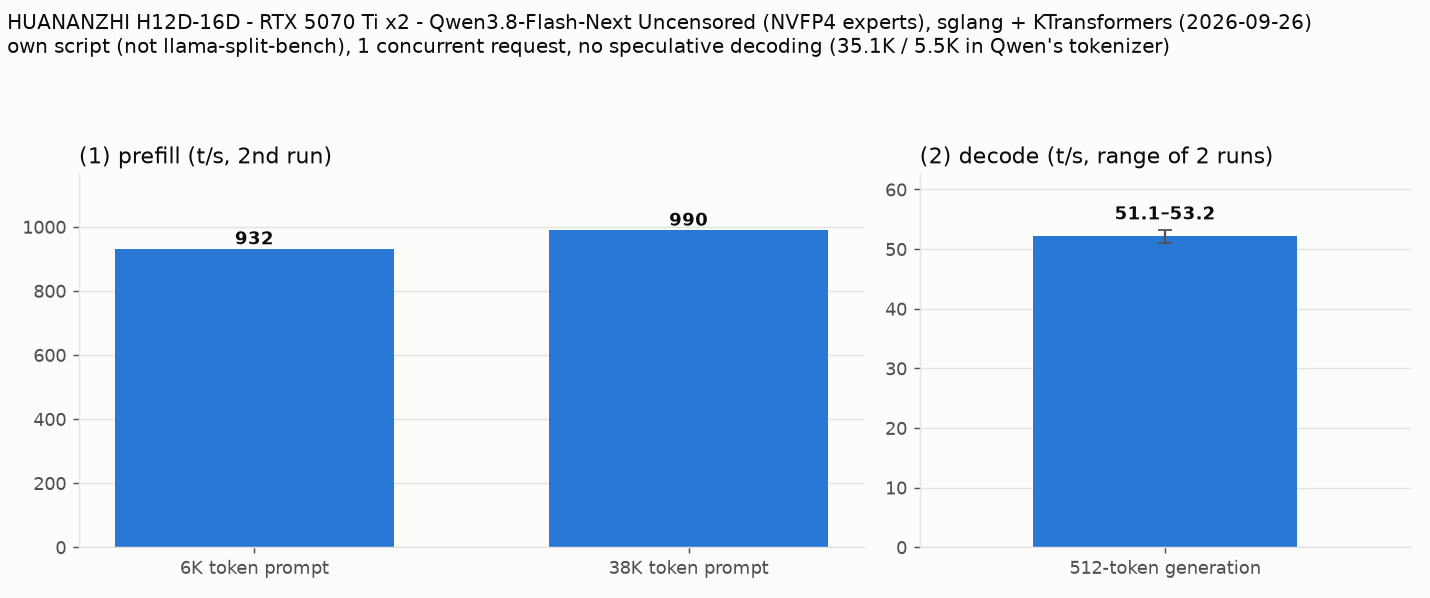
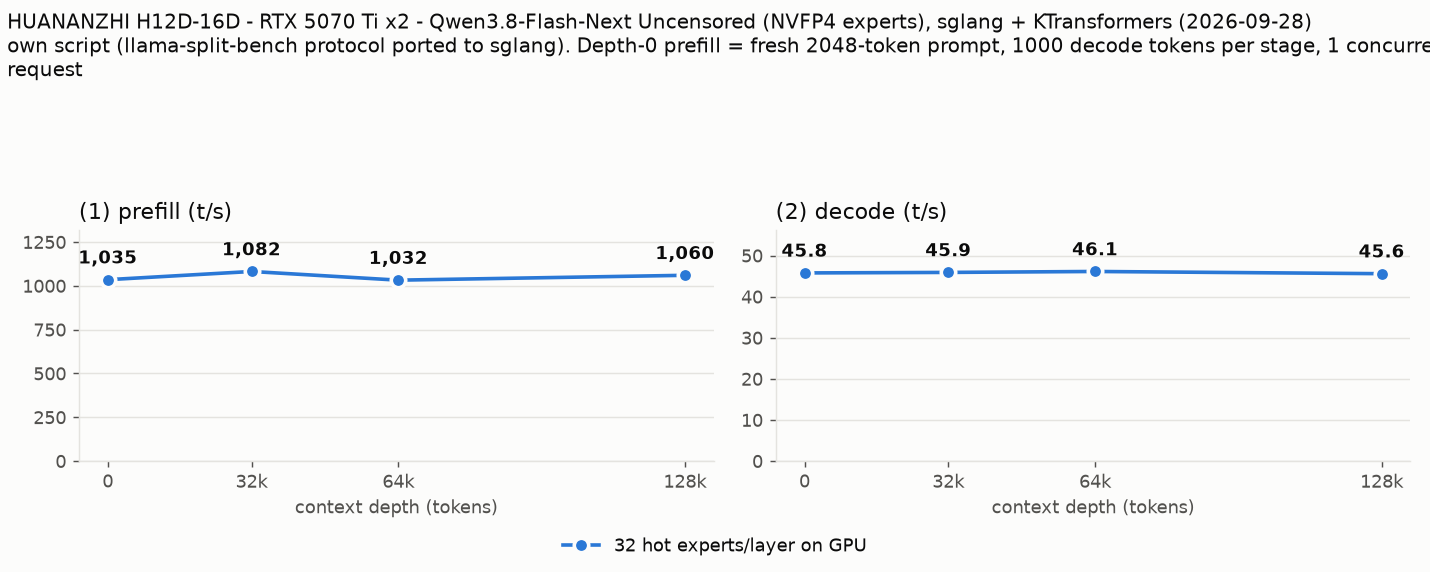
report: add the depth ladder (0/32K/64K/128K) as the main result
Maintainer request on #16: the llama-split-bench depth ladder, measured with the same
protocol ported to sglang (tools/sglang-ladder.py). The 09-26 real-prompt results stay
as a reference block.

diff --git a/report/2026-09-26_204056_running_qwen3.8_flash_next_uncensored_nvfp4_on_2x_epyc_7452_and_2x_rtx_5070_ti_with_sglang_and_ktransformers.md b/report/2026-09-26_204056_running_qwen3.8_flash_next_uncensored_nvfp4_on_2x_epyc_7452_and_2x_rtx_5070_ti_with_sglang_and_ktransformers.md
@@ -35,17 +35,40 @@ llama.cpp ではなく sglang＋KTransformers で動かしているため、llam
 
 | 項目 | 内容 |
 |------|------|
-| ツール | 自作スクリプト（sglang の OpenAI 互換 API にリクエストを送り、経過時間と usage から t/s を計算）。llama-split-bench は llama.cpp 専用のため使っていません |
+| ツール | 自作スクリプト [`tools/sglang-ladder.py`](https://github.com/05yuki/KTransformers/blob/main/tools/sglang-ladder.py)（llama-split-bench 7af72d4 の `measure_ladder.py` / `measure_pp0.py` と同じ手順を、sglang の `/generate` に移植したもの）。llama-split-bench は llama.cpp 専用のため使っていません |
 | モデル | [orcarouter/Qwen3.8-Flash-Next-Uncensored](https://huggingface.co/orcarouter/Qwen3.8-Flash-Next-Uncensored)（BF16）を元に、ルーティングされるエキスパートだけ ModelOpt で NVFP4 に量子化（キャリブレーションは自前の日本語の散文 512 本。同じ作者の NVFP4 版は使っていません）。エキスパートは NVFP4（グループサイズ 16）、それ以外は BF16。174 GB（うち PLE の n-gram テーブルが BF16 で 96 GB）。48 層（線形アテンション 36 ＋ スパースアテンション 12）、ルーティングされるエキスパート 512 個中 10 個がアクティブ、hyper-connection 4 本 |
 | 測定モード | CPU/GPU 分担（TP=2）。GPU に置くもの: エキスパート以外のすべてと、各層で使用頻度の高いエキスパート 32 個（日本語の散文の生成で集計、ルーティングの 64% をカバー）。prefill: 256 トークン以上では、エキスパートを層ごとに NVFP4 のまま GPU へ転送して計算（kt-kernel のホストメモリからゼロコピー） |
-| ctx / stages | 262K（KV キャッシュの確保は 232K トークン） / 深度ラダーなし（約 6K・約 38K トークンのプロンプトの prefill と、短いプロンプトからの 512 トークン生成） |
+| ctx / stages | 262K（KV キャッシュの確保は 232K トークン） / 0,32000,64000,128000 |
 | KV キャッシュ | BF16 |
 | 投機的デコード | なし |
-| その他 | prefill は実際に使っている日本語の執筆指示（約 38K トークン）とその先頭 11,000 文字（約 6K トークン）を max_tokens 1 で送信し、2 回目の値（1 回目は起動直後のウォームアップを含む）。プロンプトの先頭に毎回異なる文字列を付けてプレフィックスキャッシュを無効化。decode は `ignore_eos`・思考なしで 2 回。temperature 1.0 / top_p 0.95、同時リクエスト 1。測定日 2026-09-26 |
+| その他 | ラダーは llama-split-bench と同じ英語の合成テキストを使い、各段で前の段の文脈の続きを送ります（前の段までの KV はプレフィックスキャッシュで再利用し、増えた分だけを prefill）。各段の直後に greedy・`ignore_eos` で 1000 トークン生成。depth 0 の prefill は新規プロンプト（512 / 2048 / 8192 トークン、先頭に毎回異なる文字列を付けてキャッシュを無効化）で、表と図の depth 0 は 2048 トークンの値です。同時リクエスト 1、測定日 2026-09-28〜29。参考の実プロンプトの計測: prefill は実際に使っている日本語の執筆指示（約 38K トークン）とその先頭 11,000 文字（約 6K トークン）を max_tokens 1 で送信し、2 回目の値（1 回目は起動直後のウォームアップを含む）。プロンプトの先頭に毎回異なる文字列を付けてプレフィックスキャッシュを無効化。decode は `ignore_eos`・思考なしで 2 回。temperature 1.0 / top_p 0.95、同時リクエスト 1。測定日 2026-09-26 |
 
 ### 結果
 
 ![結果](attachment/2026-09-26_204056_running_qwen3.8_flash_next_uncensored_nvfp4_on_2x_epyc_7452_and_2x_rtx_5070_ti_with_sglang_and_ktransformers/split-bench-ja.png)
+
+depth ごとの prefill / decode（t/s）。depth 0 の prefill は新規プロンプト（2048 トークン）の値です。decode はラダーの合成テキストでの実測値です。
+
+| depth | 実際の深さ（トークン） | prefill | decode |
+|------:|------:|------:|------:|
+| 0 | 0 | 1,035 | 45.8 |
+| 32k | 32,093 | 1,082 | 45.9 |
+| 64k | 64,864 | 1,032 | 46.1 |
+| 128k | 128,843 | 1,060 | 45.6 |
+
+depth 0 の新規プロンプト prefill（t/s）:
+
+| プロンプト長（トークン） | prefill |
+|------:|------:|
+| 519 | 298 |
+| 1,984 | 1,035 |
+| 8,083 | 1,083 |
+
+- この版の sglang は chunk に分けた prefill のサーバ側の記録が最後の chunk の分しか残らないため、prefill は最初のトークンが返るまでの時間（クライアント側）と、前の段とのプロンプト長の差から計算しています。decode はサーバ側のスループットです
+
+ラダーの decode（英語の合成テキスト、greedy）は、下の実プロンプト（日本語、temperature 1.0）の値より低めです。GPU に置いた高頻度エキスパートは日本語の執筆でのルーティングから選んでいるため、合成テキストでは GPU 側で計算される割合が下がることが主な理由だと考えていますが、確認はしていません。
+
+#### 参考: 実際の執筆指示での計測（2026-09-26）
 
 プロンプト長ごとの prefill（t/s）。括弧内は所要時間です。
 
@@ -66,6 +89,7 @@ decode（t/s、2 回の範囲）:
 
 ### 所感
 
+- 深度ラダーでは、最も深い段（129k）まで decode は 45.6〜46.1 t/s、prefill は 1,032〜1,082 t/s で、深さによる低下はほとんどありませんでした。
 - アクティブなエキスパートが小さい（512 個中 10 個、中間次元 640）ため CPU 側の計算が軽く、decode は他の 150〜480 GB 級のモデルより速く出ます。その分 all-reduce や受け渡しのオーバーヘッドの比重が大きく、そこを削った効果がそのまま出ました。
 - `--mem-fraction-static 0.90` では 38K の prefill の途中でメモリ不足になりました。prefill の一時領域がコンテキスト長に比例して増えるためで、0.85 にして KV キャッシュを 232K トークンに抑えています。
 - この sglang では、16 トークン以下の hyper-connection の計算を atomic 加算のカーネルで行うため、decode の各ステップと短いプロンプトは、同じ入力でも丸め誤差の分だけ毎回わずかに結果が変わります（sglang の設計どおりで、deterministic モードで無効にできます）。
@@ -90,4 +114,6 @@ decode（t/s、2 回の範囲）:
 ## 添付
 
 - [split-bench-en.png](attachment/2026-09-26_204056_running_qwen3.8_flash_next_uncensored_nvfp4_on_2x_epyc_7452_and_2x_rtx_5070_ti_with_sglang_and_ktransformers/split-bench-en.png)
-- [results.json](attachment/2026-09-26_204056_running_qwen3.8_flash_next_uncensored_nvfp4_on_2x_epyc_7452_and_2x_rtx_5070_ti_with_sglang_and_ktransformers/results.json)
+- [results-ladder.json](attachment/2026-09-26_204056_running_qwen3.8_flash_next_uncensored_nvfp4_on_2x_epyc_7452_and_2x_rtx_5070_ti_with_sglang_and_ktransformers/results-ladder.json) / [results-ladder-pp0.json](attachment/2026-09-26_204056_running_qwen3.8_flash_next_uncensored_nvfp4_on_2x_epyc_7452_and_2x_rtx_5070_ti_with_sglang_and_ktransformers/results-ladder-pp0.json)
+- [run-info.json](attachment/2026-09-26_204056_running_qwen3.8_flash_next_uncensored_nvfp4_on_2x_epyc_7452_and_2x_rtx_5070_ti_with_sglang_and_ktransformers/run-info.json)
+- [results.json](attachment/2026-09-26_204056_running_qwen3.8_flash_next_uncensored_nvfp4_on_2x_epyc_7452_and_2x_rtx_5070_ti_with_sglang_and_ktransformers/results.json)（参考の実プロンプトの計測）
